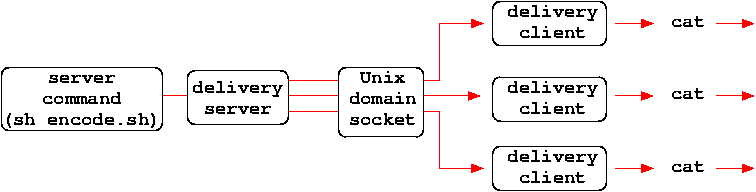
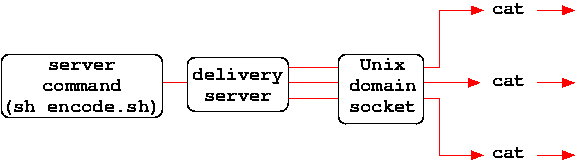
Fix incorrect documentation and figure.

Changed region(s): [[0.0, 0.125, 1.0, 1.0], [0.5938, 0.0, 1.0, 0.25], [0.9375, 0.9375, 1.0, 1.0]]

diff --git a/README.md b/README.md
@@ -120,10 +120,3 @@ simply receive the data stream from the point at which it is when the client
 happens to connect.  This tends not to be a problem for multimedia data, for
 which frame-boundary markers allow players to recover from incomplete frames.
 
----------------------------------------
-
-TODO
-====
-
-Where the client command is just `cat`, arrange for the client to output the
-stream directly (which would save a process and a copy for each client).
